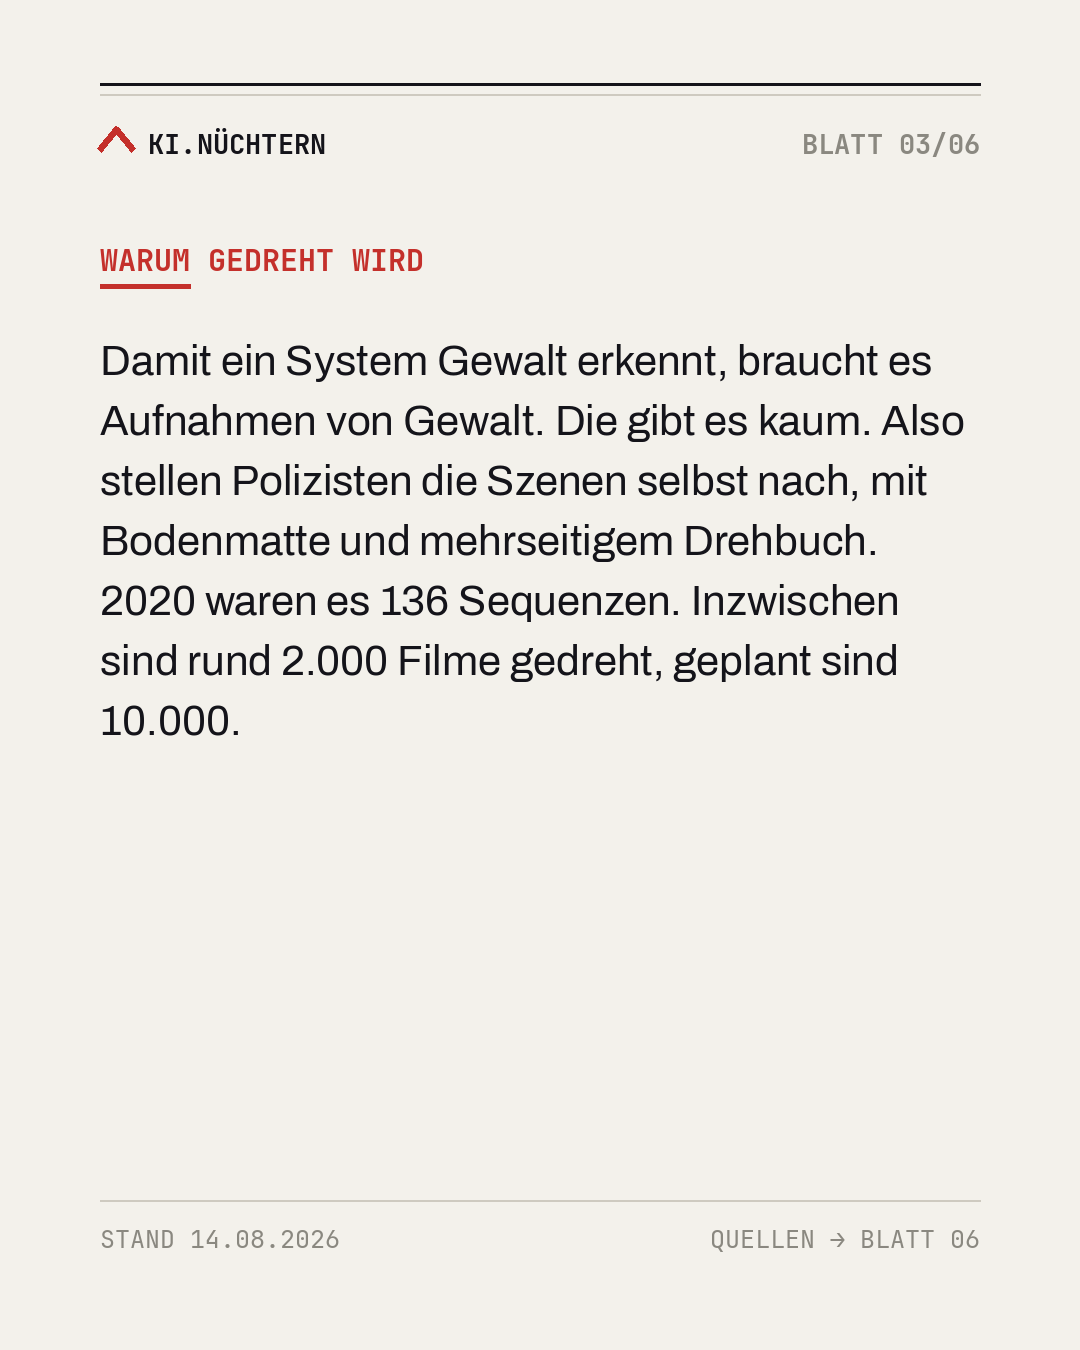
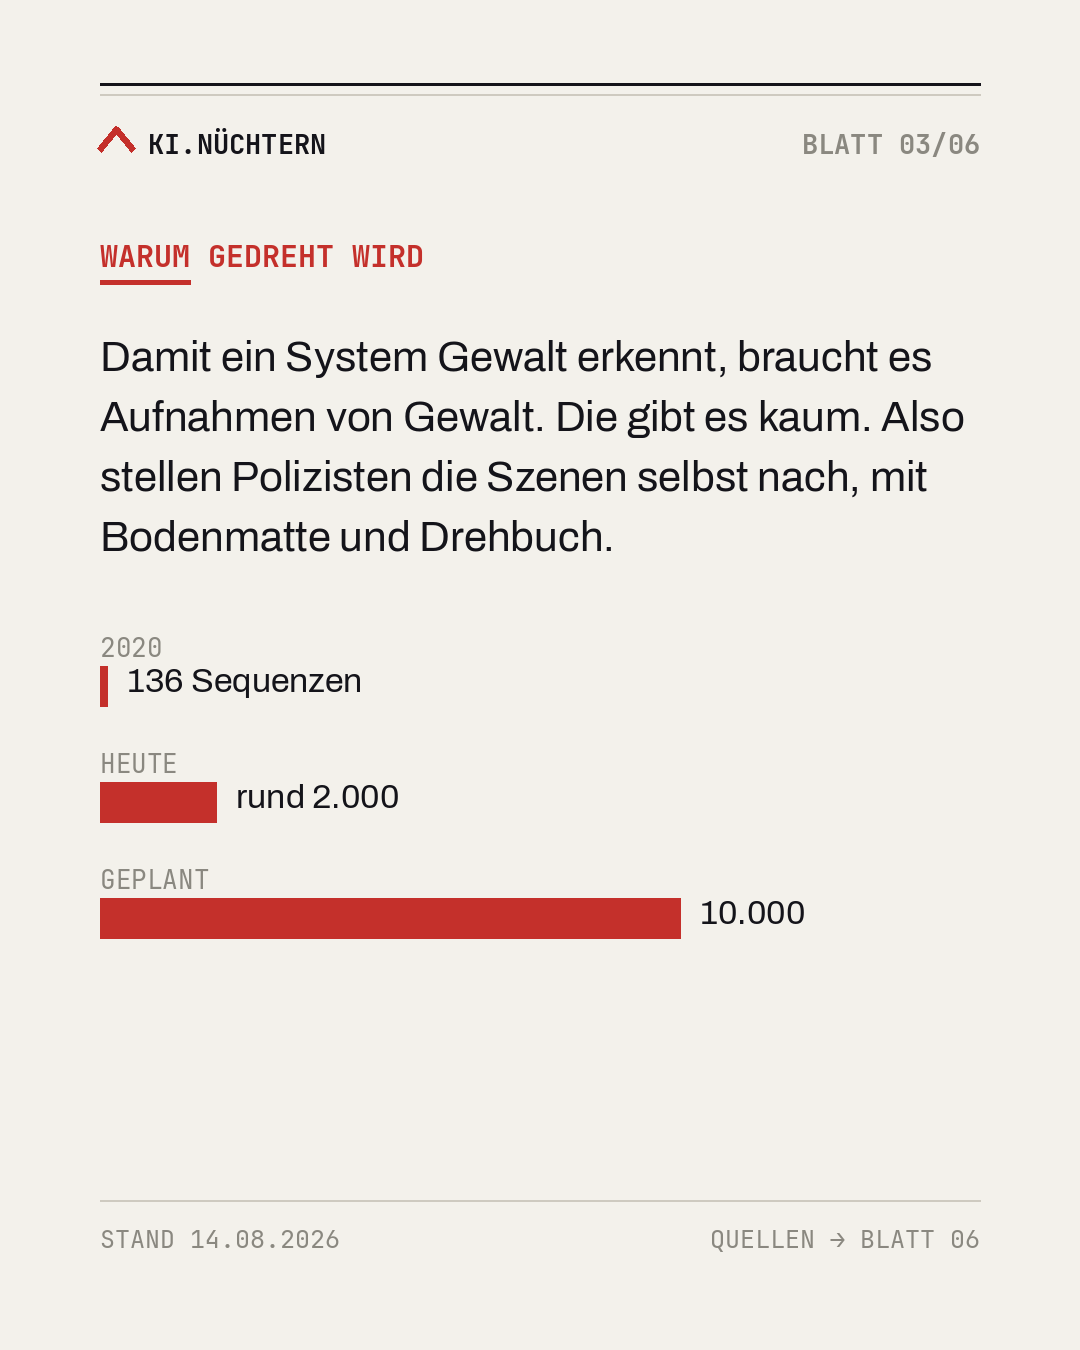
Bildhafte Elemente: Hilfsfunktionen beleg() und balken(), an Post 9 gezeigt
- beleg(): verallgemeinert das Panel-Muster aus Post 1, Blatt 05 zu einer
  wiederverwendbaren Funktion. Quelle wird als sichtbares Objekt gesetzt
  (beiges Feld, roter Balken, Monospace) statt als Fließtext.
- balken(): waagerechte Balken für Zahlenreihen, lineare Skala, damit die
  Größenverhältnisse ehrlich bleiben.
- Post 9, Blatt 03: Text gekürzt, Balkenreihe 136 / 2.000 / 10.000 ergänzt.
- Post 9, Blatt 04: Fließtext durch Beleg-Panel mit dem Wortlaut der
  Drucksache ersetzt, darunter die Einordnung.
- post.md und Alt-Texte nachgezogen.

Keine Fotos, keine KI-Bilder. Alles aus der Marken-Palette gezeichnet.

Claude-Session: https://claude.ai/code/session_01VpmRBZTZYpYDB8XJQn3xpE

diff --git a/render/build_slides.py b/render/build_slides.py
@@ -224,6 +224,42 @@ def kicker(d, y, text, color=RED):
     return y + 52
 
 
+def beleg(d, y, kopf, zeilen, sub=None):
+    """Beleg-Panel: Quelle als sichtbares Objekt statt als Fließtext.
+    Beiges Feld, roter Balken links, Monospace. Verallgemeinert das Muster
+    aus Post 1, Blatt 05. Gibt die Unterkante zurück."""
+    pad = 44
+    h = pad + 38 + (62 if sub else 0) + len(zeilen) * 46 + pad
+    d.rectangle([M, y, W - M, y + h], fill=PANEL)
+    d.line([(M, y), (M, y + h)], fill=RED, width=8)
+    ty = y + pad
+    d.text((M + pad, ty), kopf.upper(), font=f("MONOB", 30), fill=INK)
+    ty += 38
+    if sub:
+        ty += 14
+        d.text((M + pad, ty), sub, font=f("MONO", 26), fill=MUTED)
+        ty += 48
+    for ln in zeilen:
+        d.text((M + pad, ty), ln, font=f("MONO", 28), fill=INK)
+        ty += 46
+    return y + h
+
+
+def balken(d, y, reihen):
+    """Waagerechte Balken für Zahlenreihen. reihen = [(label, wert, anzeige)].
+    Lineare Skala, damit die Größenverhältnisse ehrlich bleiben."""
+    hoechst = max(w for _, w, _ in reihen) or 1
+    bahn = MAXW - 300
+    for label, wert, anzeige in reihen:
+        d.text((M, y), label, font=f("MONO", 26), fill=MUTED)
+        by = y + 36
+        bw = max(6, int(bahn * wert / hoechst))
+        d.rectangle([M, by, M + bw, by + 40], fill=RED)
+        d.text((M + bw + 20, by - 4), anzeige, font=f("BOOK", 34), fill=INK)
+        y = by + 40 + 40
+    return y
+
+
 def new(idx, total, stand=None):
     img = Image.new("RGB", (W, H), PAPER)
     d = ImageDraw.Draw(img)
@@ -1154,24 +1190,30 @@ def build_post9():
 
     # --- 03 Warum gedreht wird
     img, d = new(3, T, ST)
-    y = kicker(d, 240, "Warum gedreht wird")
-    block(d, y, "Damit ein System Gewalt erkennt, braucht es Aufnahmen von Gewalt. Die "
-                "gibt es kaum. Also stellen Polizisten die Szenen selbst nach, mit "
-                "Bodenmatte und mehrseitigem Drehbuch. 2020 waren es 136 Sequenzen. "
-                "Inzwischen sind rund 2.000 Filme gedreht, geplant sind 10.000.",
-          f("BOOK", 42), INK, MAXW, 1.44)
+    y = kicker(d, 236, "Warum gedreht wird")
+    y = block(d, y, "Damit ein System Gewalt erkennt, braucht es Aufnahmen von Gewalt. "
+                    "Die gibt es kaum. Also stellen Polizisten die Szenen selbst nach, "
+                    "mit Bodenmatte und Drehbuch.",
+              f("BOOK", 42), INK, MAXW, 1.44, 56)
+    balken(d, y, [("2020", 136, "136 Sequenzen"),
+                  ("HEUTE", 2000, "rund 2.000"),
+                  ("GEPLANT", 10000, "10.000")])
     slides.append(img)
 
     # --- 04 Was das Land selbst schrieb
     img, d = new(4, T, ST)
-    y = kicker(d, 232, "Was das Land selbst schrieb")
-    block(d, y, "Im Dezember 2023 hat das Innenministerium dem Landtag berichtet, wie "
-                "es um die Software steht. Sie erzeugt zwar Alarme, die werden aber "
-                "ausschließlich zur Weiterentwicklung genutzt und nicht einheitlich "
-                "protokolliert. Auswerten lässt sich deshalb nicht, wie viel sie "
-                "wirklich erkennt. Eine Marktreife war nicht erreicht. Die 552 Vorgänge "
-                "des Jahres fand das Personal an der herkömmlichen Videobeobachtung.",
-          f("BOOK", 41), INK, MAXW, 1.42)
+    y = kicker(d, 228, "Was das Land selbst schrieb")
+    y = beleg(d, y, "Landtag BW, Drucksache 17/5816",
+              ['„Diese sogenannten Trainingsdaten',
+               ' unterliegen keiner standardisierten',
+               ' Protokollierung und bieten somit keine',
+               ' detaillierte Auswertemöglichkeit …“'],
+              sub="Innenministerium an den Landtag, 12.12.2023")
+    y += 54
+    block(d, y, "Auswerten lässt sich also nicht, wie viel die Software erkennt. Eine "
+                "Marktreife war nicht erreicht. Die 552 Vorgänge des Jahres fand das "
+                "Personal an der herkömmlichen Videobeobachtung.",
+          f("BOOK", 38), INK, MAXW, 1.42)
     slides.append(img)
 
     # --- 05 Was das für dich heißt

diff --git a/posts/post-009-verhaltenserkennung-mannheim/post.md b/posts/post-009-verhaltenserkennung-mannheim/post.md
@@ -4,6 +4,8 @@
 - **Tag:** aktuell (netzpolitik-Bericht vom 13.08.2026 zum Stand des Mannheimer Projekts)
 - **Status:** gerendert (6 Blätter, 14.08.2026); Kernbefund an der Primärquelle geprüft
 - **Blätter:** 6 (bewusst dicht, ein Gedanke pro Blatt)
+- **Bildhaftes:** Blatt 03 Balkenreihe (136 / 2.000 / 10.000, lineare Skala), Blatt 04 Beleg-Panel
+  mit dem Zitat der Drucksache. Beides aus der Marken-Palette gezeichnet, keine Fotos, keine KI-Bilder.
 - **Warum stark:** Der Wirksamkeitsnachweis fehlt nicht laut Kritikern, sondern laut dem Innenministerium
   selbst. Das steht schriftlich in einer Landtagsdrucksache und ist damit belastbarer als jede Empörung.
 - **Warum es den Zuschauer betrifft:** Wer über den Mannheimer Bahnhofsvorplatz läuft, wird gefilmt und sein
@@ -17,8 +19,8 @@
 |-------|--------|--------|
 | 01 | Hook | **POLIZISTEN SPIELEN SCHLÄGE VOR, DAMIT DIE KAMERA LERNT.** 2.000 Filme sind gedreht. 10.000 sollen es werden. |
 | 02 | Was in Mannheim läuft | Seit Dezember 2018, fünf Bereiche der Innenstadt, darunter Bahnhofsvorplatz und Marktplatz. Von 72 geplanten Kameras hängen 68, angeschlossen sind 59. 17 Bewegungsmuster, welche genau, wird nicht herausgegeben. |
-| 03 | Warum gedreht wird | Aufnahmen echter Gewalt gibt es kaum. Also stellen Polizisten die Szenen nach, mit Bodenmatte und Drehbuch. 2020 waren es 136 Sequenzen, heute rund 2.000, geplant 10.000. |
-| 04 | Was das Land selbst schrieb | Innenministerium an den Landtag, Dezember 2023: Alarme werden erzeugt, aber nur zur Weiterentwicklung genutzt und nicht einheitlich protokolliert. Auswertbar ist daher nicht, wie viel die Software erkennt. Marktreife nicht erreicht. Die 552 Vorgänge des Jahres fand das Personal an der herkömmlichen Technik. |
+| 03 | Warum gedreht wird | Aufnahmen echter Gewalt gibt es kaum. Also stellen Polizisten die Szenen nach, mit Bodenmatte und Drehbuch. **Balkenreihe:** 136 Sequenzen 2020, rund 2.000 heute, 10.000 geplant. |
+| 04 | Was das Land selbst schrieb | **Beleg-Panel** mit dem Wortlaut aus Drucksache 17/5816 (Innenministerium, 12.12.2023). Darunter: Auswertbar ist daher nicht, wie viel die Software erkennt. Marktreife nicht erreicht. Die 552 Vorgänge fand das Personal an der herkömmlichen Technik. |
 | 05 | Was das für dich heißt | Projektende November 2026, Auswertung erst Anfang 2027, Ausweitung läuft trotzdem: Hamburg seit 2025, Heidelberg vorgesehen. Am Nordende der Breiten Straße verzeichnet die Kriminalstatistik seit 2017 keine Delikte. Das Polizeigesetz verlangt eine Belastung, die sich deutlich abhebt. |
 | 06 | Quellen | Landtag BW 17/5816 · netzpolitik 08/2026 · § 44 PolG BW · Kein Rechtsrat. |
 
@@ -53,8 +55,8 @@
 
 - **01:** Papierbeiges Aktenblatt, große Schlagzeile „Polizisten spielen Schläge vor, damit die Kamera lernt", darunter der Hinweis auf 2.000 gedrehte und 10.000 geplante Trainingsfilme.
 - **02:** Kicker „Was in Mannheim läuft": seit Dezember 2018, fünf Innenstadtbereiche mit Bahnhofsvorplatz und Marktplatz, 68 von 72 Kameras installiert, 59 an die Software angeschlossen, 17 Bewegungsmuster.
-- **03:** Kicker „Warum gedreht wird": zu wenige echte Aufnahmen, deshalb nachgestellte Szenen mit Bodenmatte und Drehbuch, 136 Sequenzen im Jahr 2020, heute rund 2.000, geplant 10.000.
-- **04:** Kicker „Was das Land selbst schrieb": Stellungnahme des Innenministeriums von Dezember 2023, Alarme nur zur Weiterentwicklung, keine einheitliche Protokollierung, keine Marktreife, die 552 Vorgänge fand das Personal an herkömmlicher Technik.
+- **03:** Kicker „Warum gedreht wird": zu wenige echte Aufnahmen, deshalb nachgestellte Szenen mit Bodenmatte und Drehbuch. Darunter drei rote Balken im Größenvergleich: 136 Sequenzen 2020, rund 2.000 heute, 10.000 geplant.
+- **04:** Kicker „Was das Land selbst schrieb": ein hervorgehobenes Zitatfeld aus der Landtagsdrucksache 17/5816 vom 12. Dezember 2023 mit dem Wortlaut, dass die Trainingsdaten keiner standardisierten Protokollierung unterliegen. Darunter: keine Auswertbarkeit, keine Marktreife, die 552 Vorgänge fand das Personal an herkömmlicher Technik.
 - **05:** Kicker „Was das für dich heißt": Projektende November 2026, Auswertung Anfang 2027, Ausweitung nach Hamburg und Heidelberg, am Nordende der Breiten Straße seit 2017 keine Delikte in der Kriminalstatistik.
 - **06:** Kicker „Quellen": Landtagsdrucksache 17/5816, netzpolitik-Recherche August 2026, Paragraf 44 Polizeigesetz Baden-Württemberg, Hinweis kein Rechtsrat.
 
